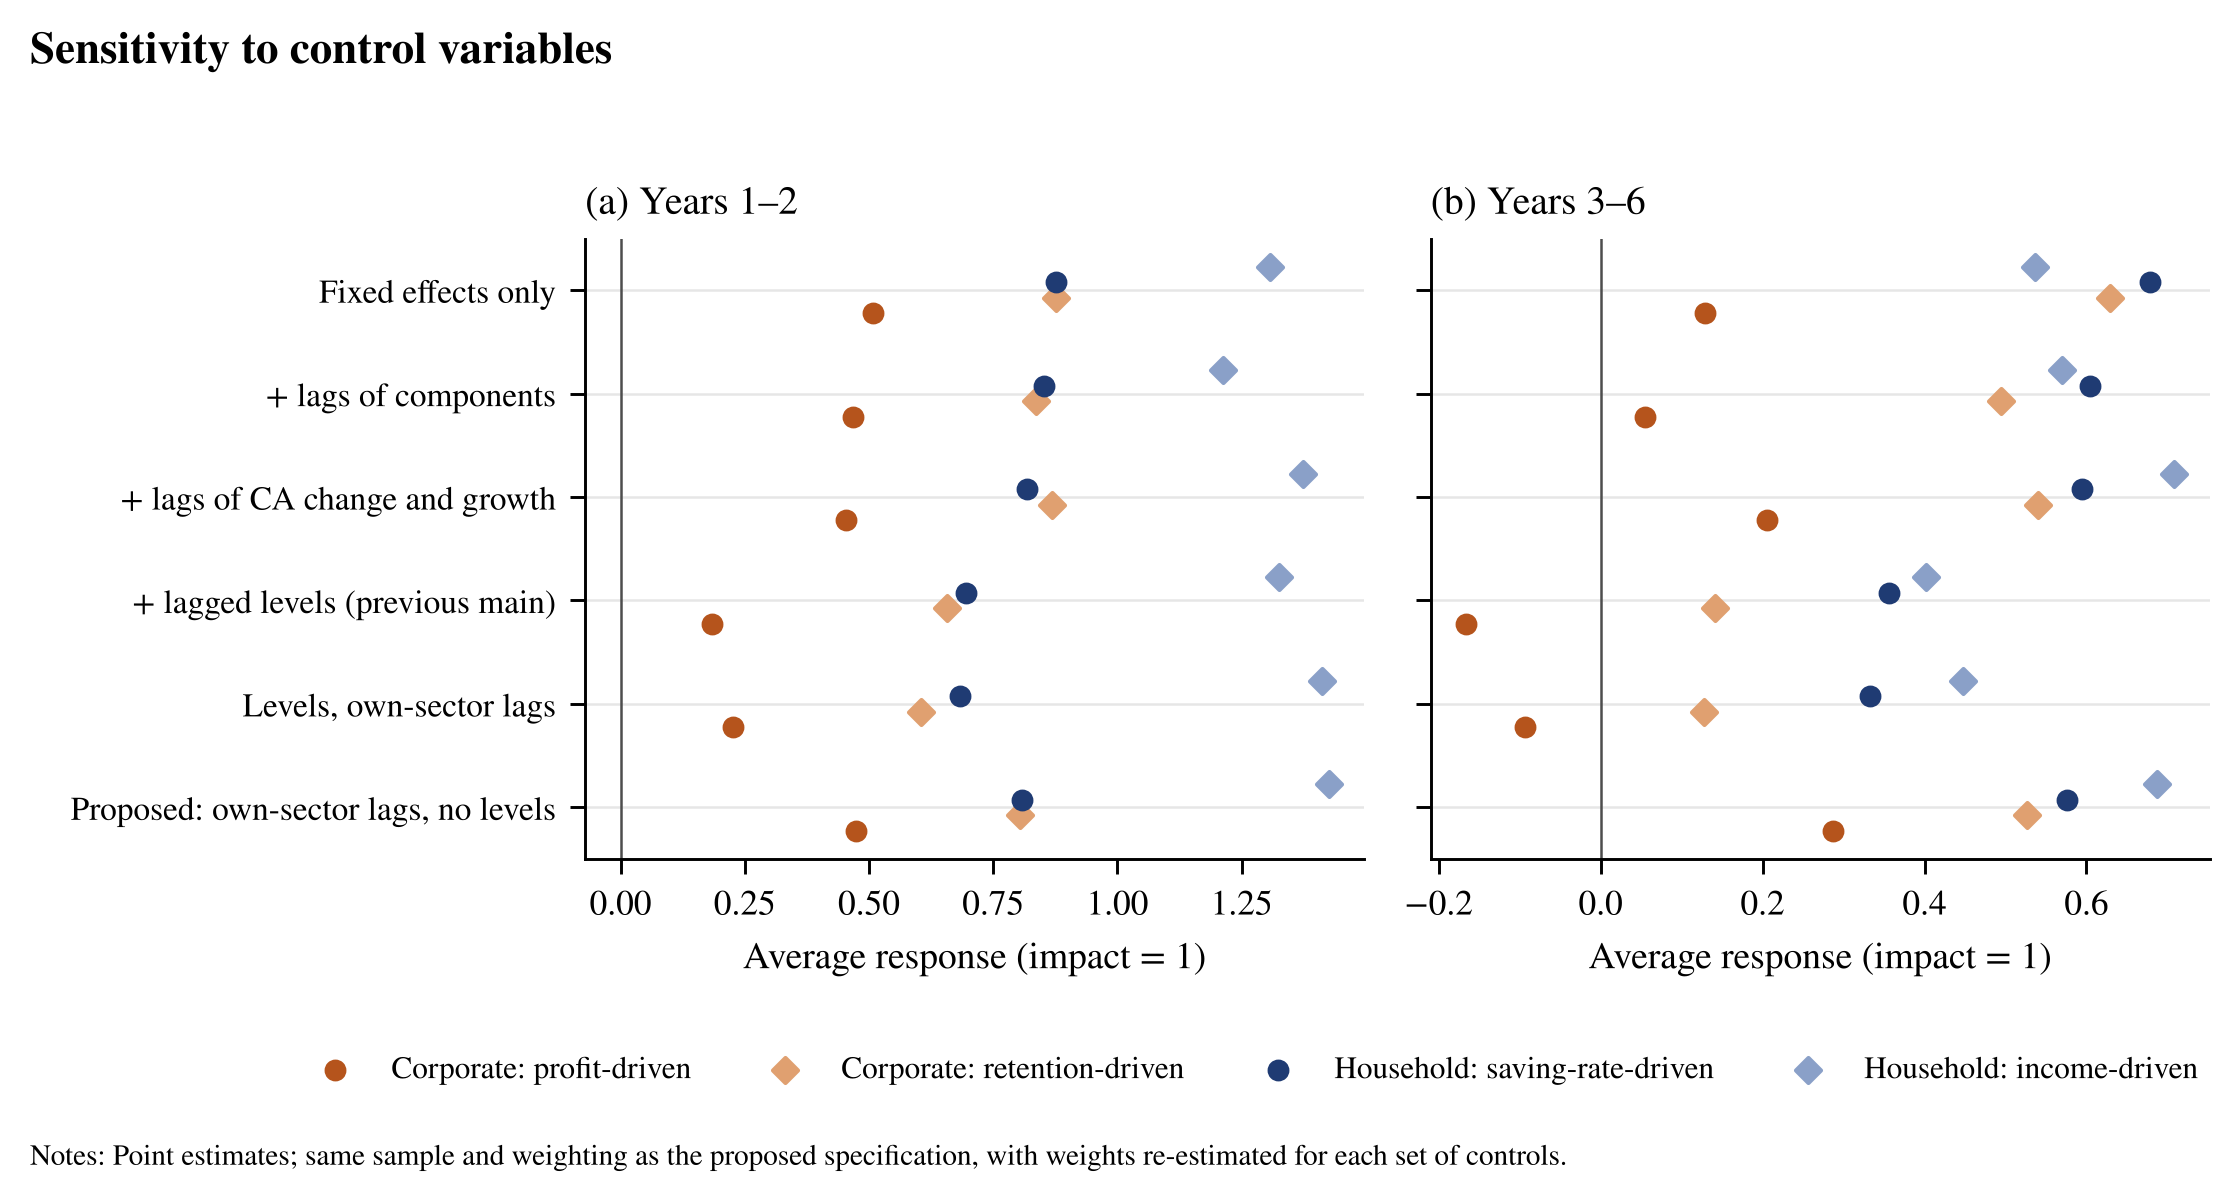
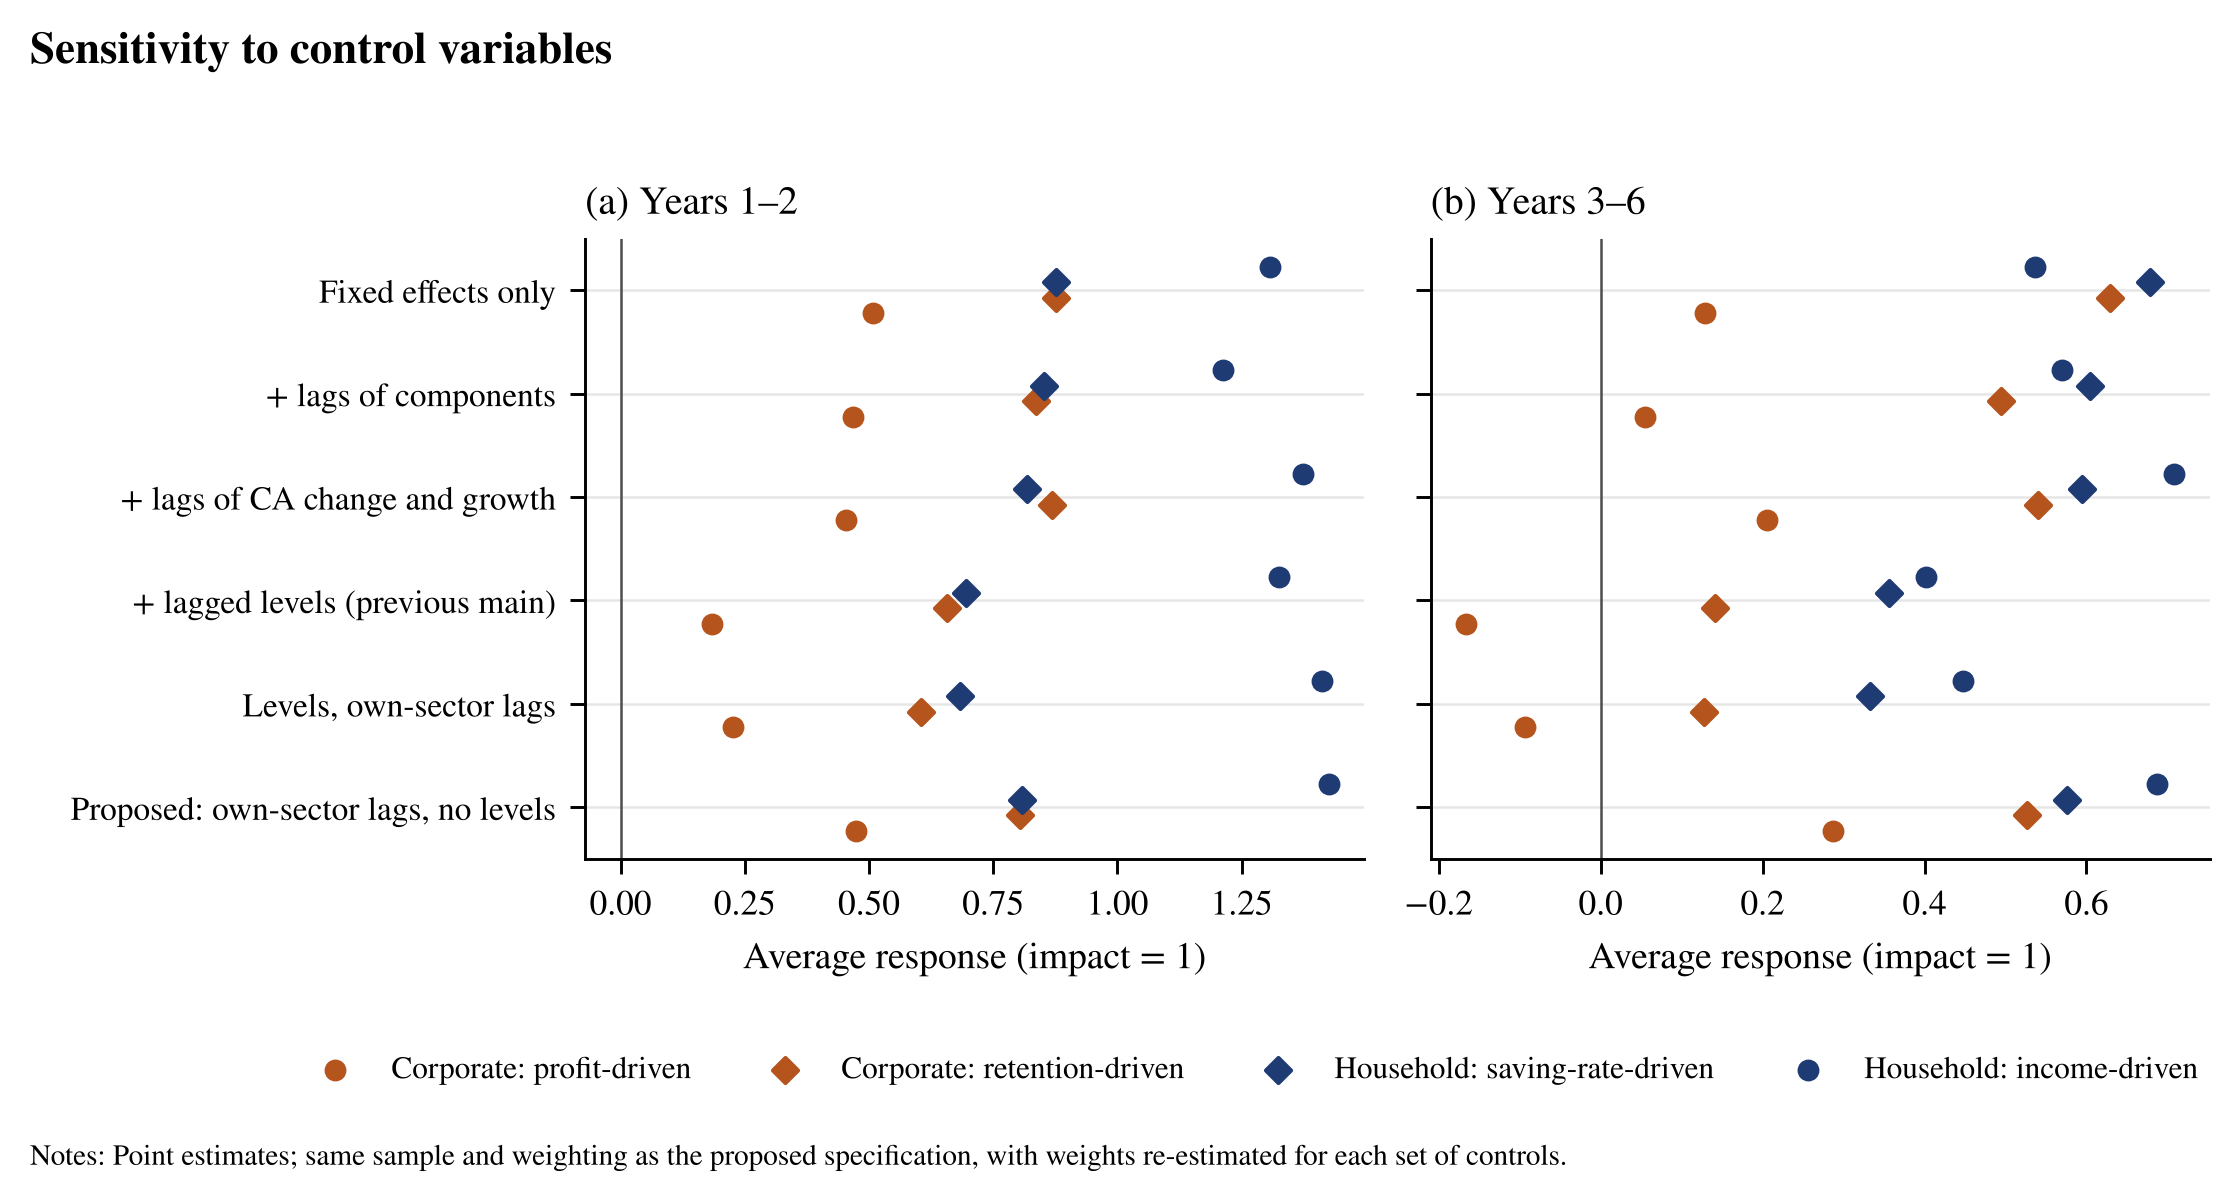
Distinguish components by marker in control-sensitivity chart
Claude-Session: https://claude.ai/code/session_01QSFGVrqZTZBvgbV4CUsjF6

diff --git a/research/sector_saving_ca/ep_source_fig.py b/research/sector_saving_ca/ep_source_fig.py
@@ -88,7 +88,7 @@ def figures(r):
     for ax, horizon, title in ((axes[0], "short", "(a) Years 1–2"), (axes[1], "medium", "(b) Years 3–6")):
         for j, x in enumerate(c.SRC):
             v = s[s.source == x].set_index("spec").loc[specs, horizon].to_numpy()
-            ax.scatter(v, y + (j - 1.5) * 0.15, color=col[x], s=18, marker="o" if ls[x] == "-" else "D", label=LAB[x], zorder=3)
+            ax.scatter(v, y + (j - 1.5) * 0.15, color=col[x], s=18, marker="o" if x in ("x_P", "x_Y") else "D", label=LAB[x], zorder=3)
         ax.axvline(0, color=".3", lw=.6)
         ax.set_title(title, loc="left", fontsize=9.5)
         ax.set_xlabel("Average response (impact = 1)")
